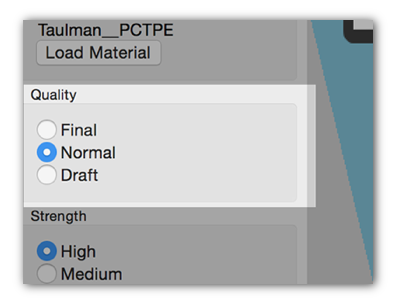
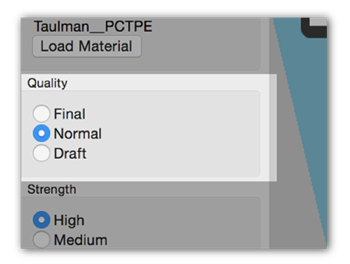
Graphics/buttons update.

diff --git a/Cura/gui/util/openglGui.py b/Cura/gui/util/openglGui.py
@@ -719,8 +719,8 @@ class glNotification(glFrame):
 		super(glNotification, self).__init__(parent, pos)
 		glGuiLayoutGrid(self)._alignBottom = False
 		self._label = glLabel(self, "Notification", (0, 0))
-		self._buttonExtra = glButton(self, 31, "???", (1, 0), self.onExtraButton, 25)
-		self._button = glButton(self, 30, "", (2, 0), self.onClose, 25)
+		self._buttonExtra = glButton(self, 31, "???", (1, 0), self.onExtraButton, 40)
+		self._button = glButton(self, 30, "", (2, 0), self.onClose, 40)
 		self._padding = glLabel(self, "", (0, 1))
 		self.setHidden(True)
 
@@ -728,7 +728,7 @@ class glNotification(glFrame):
 		w, h = self._layout.getLayoutSize()
 		baseSize = self._base.GetSizeTuple()
 		if self._anim is not None:
-			super(glNotification, self).setSize(baseSize[0] / 2 - w / 2, baseSize[1] - self._anim.getPosition() - self._base._buttonSize * 0.2, 1, 1)
+			super(glNotification, self).setSize(baseSize[0] / 2 - w / 2, baseSize[1] - self._anim.getPosition() - self._base._buttonSize * 0.5, 1, 1)
 		else:
 			super(glNotification, self).setSize(baseSize[0] / 2 - w / 2, baseSize[1] - self._base._buttonSize * 0.2, 1, 1)
 	def draw(self):
@@ -737,7 +737,7 @@ class glNotification(glFrame):
 		super(glNotification, self).draw()
 
 	def message(self, text, extraButtonCallback = None, extraButtonIcon = None, extraButtonTooltip = None):
-		self._anim = animation(self._base, -20, 25, 1)
+		self._anim = animation(self._base, -20, 40, 1)
 		self.setHidden(False)
 		self._label.setLabel(text)
 		self._buttonExtra.setHidden(extraButtonCallback is None)
